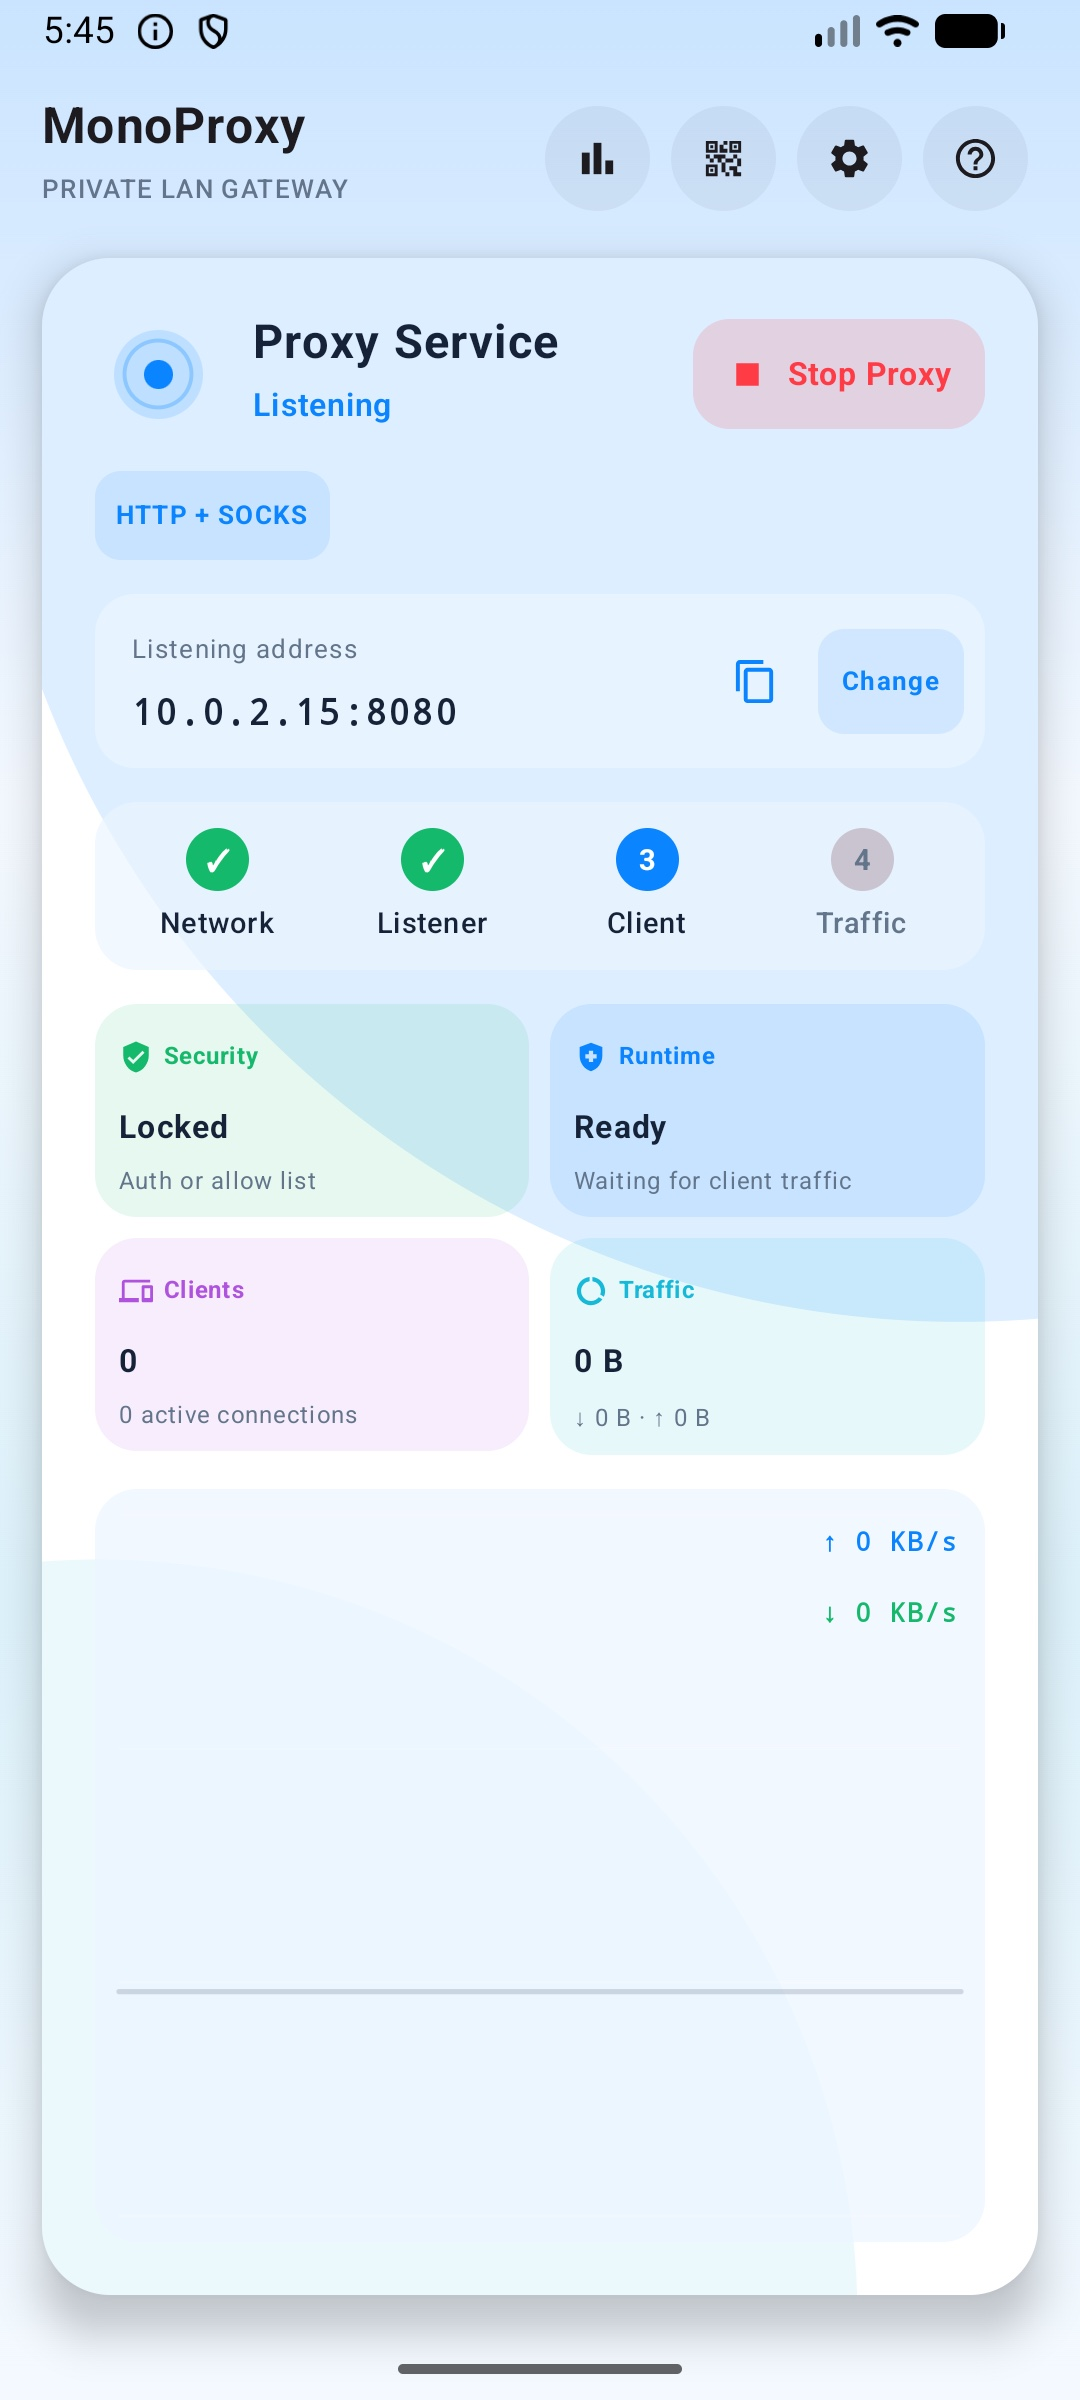
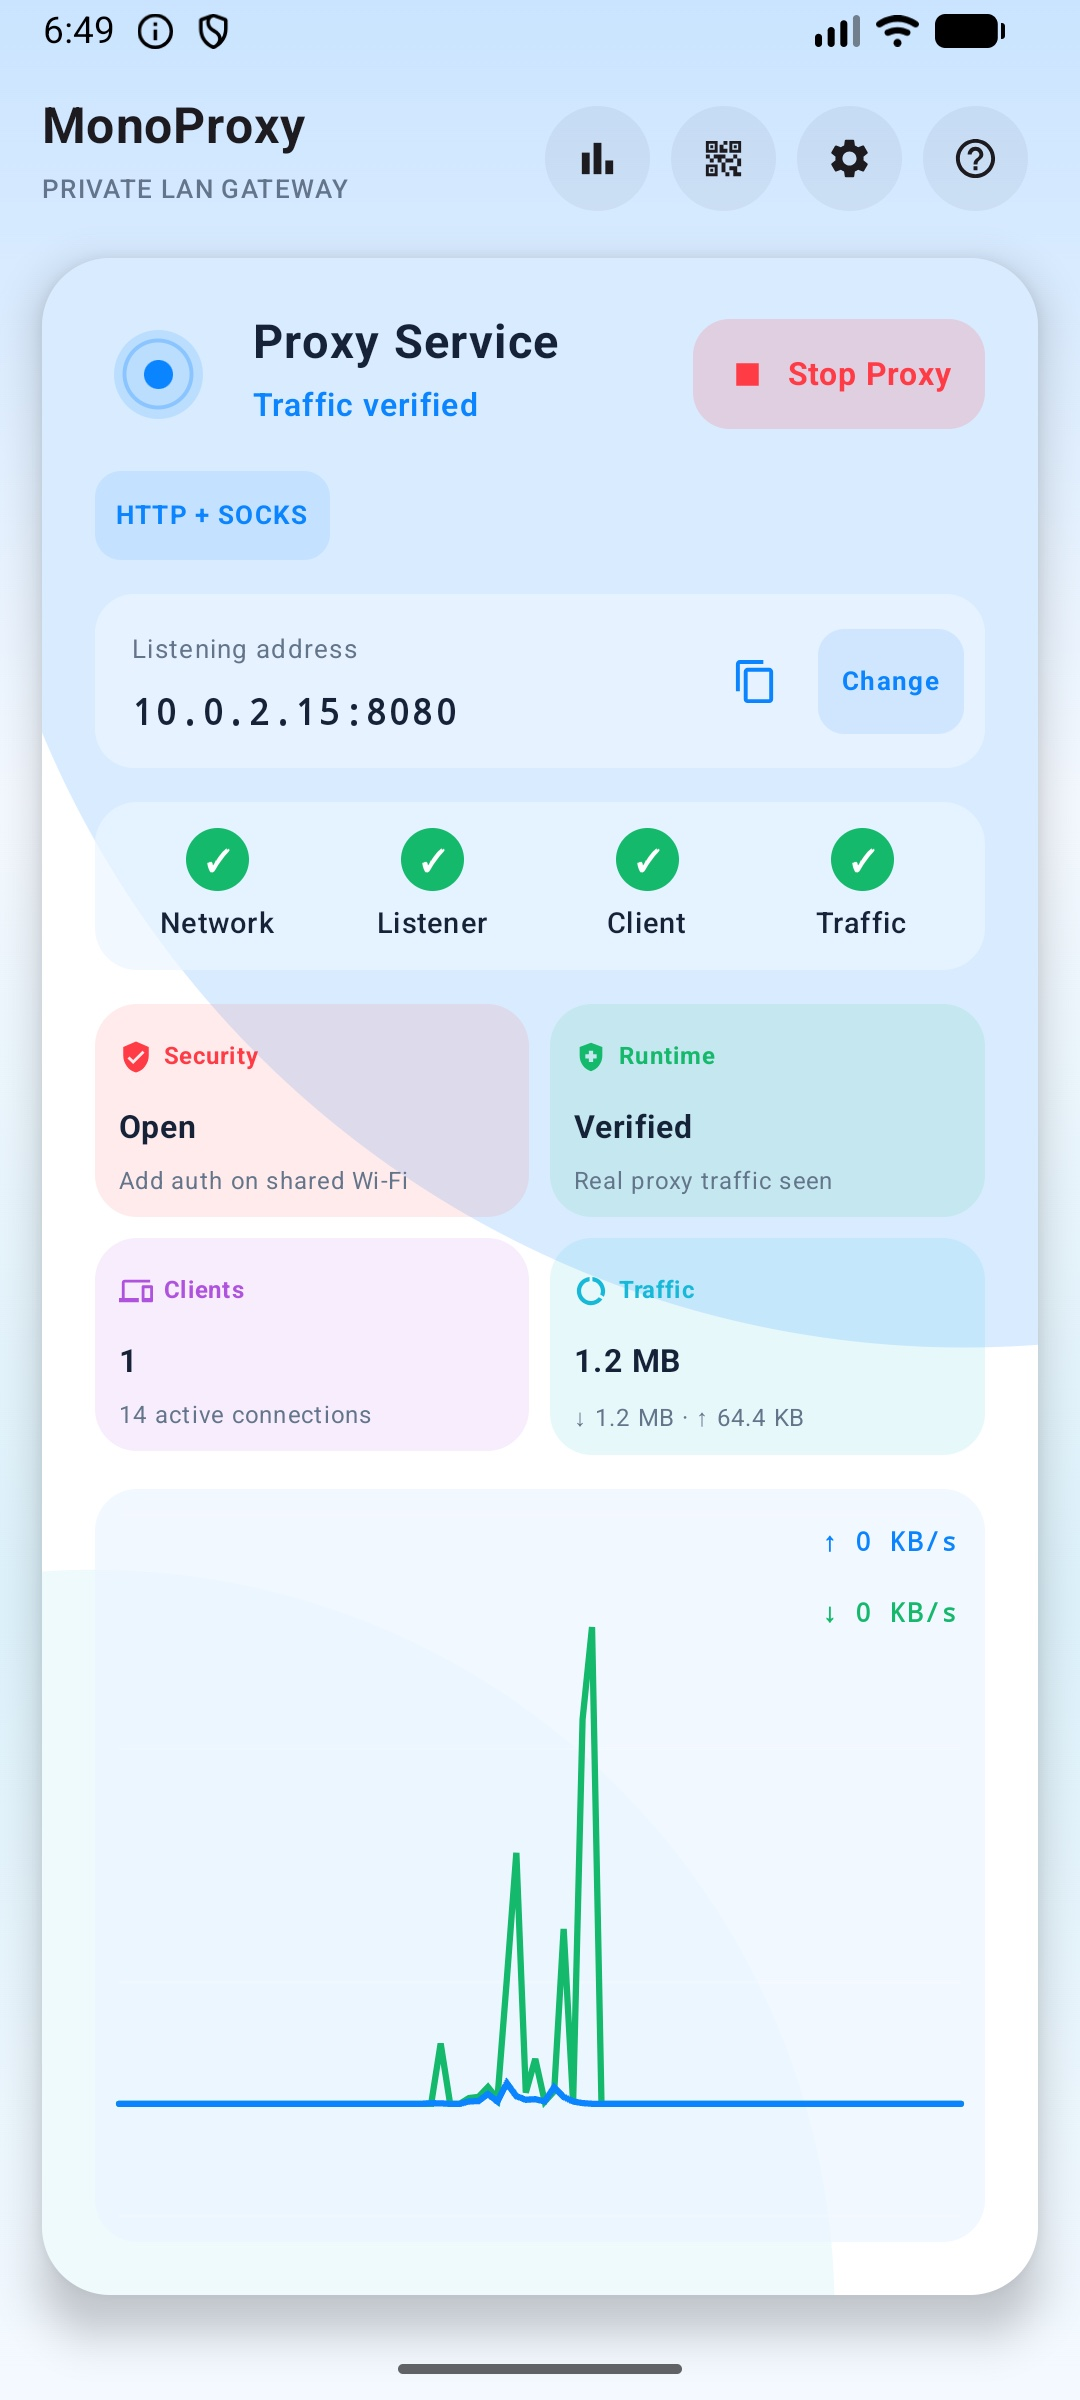
Refresh Android landing screenshots

diff --git a/android/index.html b/android/index.html
@@ -365,8 +365,8 @@
           <img src="../images/android/connect_device.jpg" width="1080" height="2400" alt="MonoProxy Android guided device connection screen" fetchpriority="high" decoding="async">
         </div>
         <div class="status-chip">
-          <strong>Ready for the LAN</strong>
-          <span>One address, one port, visible connection state.</span>
+          <strong>Traffic verified</strong>
+          <span>Live sessions, wave history and local traffic records.</span>
         </div>
       </div>
     </div>
@@ -514,6 +514,28 @@
           </div>
           <div class="screen-well gold">
             <div class="screen-shot"><img src="../images/android/connect_device.jpg" width="1080" height="2400" alt="MonoProxy Android connect device screen" loading="lazy" decoding="async"></div>
+          </div>
+        </article>
+
+        <article class="showcase-card half">
+          <div class="showcase-copy">
+            <span class="tag">Traffic insight</span>
+            <h3>See which hosts actually used the proxy</h3>
+            <p>Site traffic is aggregated by host, with upload, download and last activity totals kept locally on the phone.</p>
+          </div>
+          <div class="screen-well green">
+            <div class="screen-shot"><img src="../images/android/site_traffic.jpg" width="1080" height="2400" alt="MonoProxy Android site traffic screen with YouTube and Google traffic totals" loading="lazy" decoding="async"></div>
+          </div>
+        </article>
+
+        <article class="showcase-card half">
+          <div class="showcase-copy">
+            <span class="tag">History</span>
+            <h3>Local session records for debugging</h3>
+            <p>Browsing history records host-level proxy sessions only when enabled, so connection problems are easier to explain without storing paths or credentials.</p>
+          </div>
+          <div class="screen-well gold">
+            <div class="screen-shot"><img src="../images/android/browsing_history.jpg" width="1080" height="2400" alt="MonoProxy Android browsing history screen with active YouTube and Google proxy sessions" loading="lazy" decoding="async"></div>
           </div>
         </article>
 
